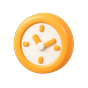
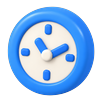
update

diff --git a/Atype.html b/Atype.html
@@ -182,7 +182,7 @@
     align-items: center;
     padding-left: 56px;
     background: var(--tab-light, color-mix(in srgb, var(--tab-color, var(--blue-accent)) 40%, #fff));
-    color: #fff;
+    color: var(--tab-light-text, #fff);
     clip-path: inset(0 100% 0 0);
     will-change: clip-path;
     z-index: 2;
@@ -547,7 +547,7 @@
       </div>
       <nav class="menu" id="navMenu">
        <div class="menu-track">
-        <div class="tab-wrap" data-key="firstpay" data-tab-light="#FF467D" data-tab-color="#FF2465" data-content="assets/content-firstpay-v2.jpg" data-content-mobile="assets/content-firstpay-mobile.jpg" data-fab-bg="#FF5285" data-fab-color="#FF5285" data-fab-type="video" data-fab-media="assets/1편.mp4" data-fab-img-style="width:100%;height:100%;left:0;top:0;">
+        <div class="tab-wrap" data-key="firstpay" data-tab-light="#FF90B1" data-tab-color="#FF2465" data-content="assets/content-firstpay-v2.jpg" data-content-mobile="assets/content-firstpay-mobile.jpg" data-fab-bg="#FF5285" data-fab-color="#FF5285" data-fab-type="video" data-fab-media="assets/1편.mp4" data-fab-img-style="width:100%;height:100%;left:0;top:0;">
           <button class="tab-btn" type="button">
             <span class="tab-plain"><span class="tab-icon"><picture><source media="(max-width: 768px)" srcset="assets/gnb/v2/icon-m1.png" /><img src="assets/gnb/v2/icon-d1.png" alt="" /></picture></span><span class="tab-text">장기저축급여</span></span>
             <span class="tab-pill">
@@ -568,7 +568,7 @@
           </div>
         </div>
 
-        <div class="tab-wrap" data-key="retire" data-tab-light="#46A4F9" data-content="assets/content-retire-v2.jpg" data-content-mobile="assets/content-retire-mobile.jpg" data-fab-bg="#0F68EE" data-fab-color="#2853F6" data-fab-type="video" data-fab-media="assets/2편.mp4" data-fab-img-style="width:100%;height:100%;left:0;top:0;">
+        <div class="tab-wrap" data-key="retire" data-tab-light="#90C8FB" data-content="assets/content-retire-v2.jpg" data-content-mobile="assets/content-retire-mobile.jpg" data-fab-bg="#0F68EE" data-fab-color="#2853F6" data-fab-type="video" data-fab-media="assets/2편.mp4" data-fab-img-style="width:100%;height:100%;left:0;top:0;">
           <button class="tab-btn" type="button">
             <span class="tab-plain"><span class="tab-icon"><picture><source media="(max-width: 768px)" srcset="assets/gnb/v2/icon-m2.png" /><img src="assets/gnb/v2/icon-d2.png" alt="" /></picture></span><span class="tab-text">분할급여금</span></span>
             <span class="tab-pill">
@@ -589,7 +589,7 @@
           </div>
         </div>
 
-        <div class="tab-wrap" data-key="deposit" data-tab-light="#A25FFF" data-content="assets/content-deposit-v2.jpg" data-content-mobile="assets/content-deposit-mobile.jpg" data-fab-bg="#8D3BFF" data-fab-color="#8D3BFF" data-fab-type="video" data-fab-media="assets/3편.mp4" data-fab-img-style="width:100%;height:100%;left:0;top:0;">
+        <div class="tab-wrap" data-key="deposit" data-tab-light="#C79FFF" data-content="assets/content-deposit-v2.jpg" data-content-mobile="assets/content-deposit-mobile.jpg" data-fab-bg="#8D3BFF" data-fab-color="#8D3BFF" data-fab-type="video" data-fab-media="assets/3편.mp4" data-fab-img-style="width:100%;height:100%;left:0;top:0;">
           <button class="tab-btn" type="button">
             <span class="tab-plain"><span class="tab-icon"><picture><source media="(max-width: 768px)" srcset="assets/gnb/v2/icon-m3.png" /><img src="assets/gnb/v2/icon-d3.png" alt="" /></picture></span><span class="tab-text">증좌</span></span>
             <span class="tab-pill">
@@ -631,7 +631,7 @@
           </div>
         </div>
 
-        <div class="tab-wrap" data-key="future" data-tab-light="#32B14B" data-content="" data-blank-color="#E8F5E9" data-fab-bg="#2E9E44" data-fab-color="#2E9E44" data-fab-type="image" data-fab-media="assets/fab-blank-v2.png" data-fab-img-style="width:64px;height:64px;left:50%;top:50%;transform:translate(-50%,-50%);">
+        <div class="tab-wrap" data-key="future" data-tab-light="#84D093" data-content="" data-blank-color="#E8F5E9" data-fab-bg="#2E9E44" data-fab-color="#2E9E44" data-fab-type="image" data-fab-media="assets/fab-blank-v2.png" data-fab-img-style="width:64px;height:64px;left:50%;top:50%;transform:translate(-50%,-50%);">
           <button class="tab-btn" type="button">
             <span class="tab-plain"><span class="tab-icon"><picture><source media="(max-width: 768px)" srcset="assets/gnb/v2/icon-m5.png" /><img src="assets/gnb/v2/icon-d5.png" alt="" /></picture></span><span class="tab-text">혜택마트</span></span>
             <span class="tab-pill">
@@ -652,7 +652,7 @@
           </div>
         </div>
 
-        <div class="tab-wrap" data-key="lowtax" data-tab-light="#FFBA02" data-content="" data-blank-color="#FFF9E6" data-fab-bg="#E6A700" data-fab-color="#E6A700" data-fab-type="image" data-fab-media="assets/fab-blank-v2.png" data-fab-img-style="width:64px;height:64px;left:50%;top:50%;transform:translate(-50%,-50%);">
+        <div class="tab-wrap" data-key="lowtax" data-tab-light="#FFD667" data-content="" data-blank-color="#FFF9E6" data-fab-bg="#E6A700" data-fab-color="#E6A700" data-fab-type="image" data-fab-media="assets/fab-blank-v2.png" data-fab-img-style="width:64px;height:64px;left:50%;top:50%;transform:translate(-50%,-50%);">
           <button class="tab-btn" type="button">
             <span class="tab-plain"><span class="tab-icon"><picture><source media="(max-width: 768px)" srcset="assets/gnb/v2/icon-m6.png" /><img src="assets/gnb/v2/icon-d6.png" alt="" /></picture></span><span class="tab-text">벽돌깨기</span></span>
             <span class="tab-pill">
@@ -673,7 +673,7 @@
           </div>
         </div>
 
-        <div class="tab-wrap" data-key="deduction" data-tab-light="#A25FFF" data-content="" data-blank-color="#F3E8FF" data-fab-bg="#8D3BFF" data-fab-color="#8D3BFF" data-fab-type="image" data-fab-media="assets/fab-blank-v2.png" data-fab-img-style="width:64px;height:64px;left:50%;top:50%;transform:translate(-50%,-50%);">
+        <div class="tab-wrap" data-key="deduction" data-tab-light="#C79FFF" data-content="" data-blank-color="#F3E8FF" data-fab-bg="#8D3BFF" data-fab-color="#8D3BFF" data-fab-type="image" data-fab-media="assets/fab-blank-v2.png" data-fab-img-style="width:64px;height:64px;left:50%;top:50%;transform:translate(-50%,-50%);">
           <button class="tab-btn" type="button">
             <span class="tab-plain"><span class="tab-icon"><picture><source media="(max-width: 768px)" srcset="assets/gnb/v2/icon-m7.png" /><img src="assets/gnb/v2/icon-d7.png" alt="" /></picture></span><span class="tab-text">증좌 2편</span></span>
             <span class="tab-pill">
@@ -694,7 +694,7 @@
           </div>
         </div>
 
-        <div class="tab-wrap" data-key="yearend" data-tab-light="#FF891D" data-content="" data-blank-color="#FFF0E0" data-fab-bg="#FF7A00" data-fab-color="#FF7A00" data-fab-type="image" data-fab-media="assets/fab-blank-v2.png" data-fab-img-style="width:64px;height:64px;left:50%;top:50%;transform:translate(-50%,-50%);">
+        <div class="tab-wrap" data-key="yearend" data-tab-light="#FFB877" data-content="" data-blank-color="#FFF0E0" data-fab-bg="#FF7A00" data-fab-color="#FF7A00" data-fab-type="image" data-fab-media="assets/fab-blank-v2.png" data-fab-img-style="width:64px;height:64px;left:50%;top:50%;transform:translate(-50%,-50%);">
           <button class="tab-btn" type="button">
             <span class="tab-plain"><span class="tab-icon"><picture><source media="(max-width: 768px)" srcset="assets/gnb/v2/icon-m8.png" /><img src="assets/gnb/v2/icon-d8.png" alt="" /></picture></span><span class="tab-text">분할급여금 2편</span></span>
             <span class="tab-pill">
@@ -818,6 +818,8 @@
       if (c) w.style.setProperty('--tab-color', c);
       // lighter shade the selected tab scrolls into (4편 = #46A4F9)
       if (w.dataset.tabLight) w.style.setProperty('--tab-light', w.dataset.tabLight);
+      // paler shades need the tab color for legible text (4편 keeps white)
+      if (w.dataset.key !== 'benefit' && c) w.style.setProperty('--tab-light-text', c);
     });
     const contentImage = document.getElementById('contentImage');
     const benefitFrame = document.getElementById('benefitFrame');

diff --git a/Btype.html b/Btype.html
@@ -152,6 +152,8 @@
     align-items: center;
     gap: 8px;
     background: color-mix(in srgb, var(--tab-color, var(--blue-accent)) 15%, #fff);
+    /* selected border = a deeper shade of the tab's own color */
+    border: 2px solid color-mix(in srgb, var(--tab-color, var(--blue-accent)) 30%, #fff);
     border-radius: 16px;
     height: 56px;
     padding: 0 20px 0 8px;
@@ -470,27 +472,27 @@
       overflow-x: auto;
       -webkit-overflow-scrolling: touch;
       scrollbar-width: none;
-      height: 38px;
+      height: 48px;
       padding: 0 10px 8px;
     }
     nav.menu::-webkit-scrollbar { display: none; }
     .menu-track { gap: 4px; margin: 0; }
 
-    /* Figma mobile GNB: inactive = 30px icon-only square, active = icon + label */
+    /* Figma mobile GNB (B안): inactive = 40px icon-only square, active = icon + label */
     .tab-plain {
-      width: 30px;
-      height: 30px;
+      width: 40px;
+      height: 40px;
       justify-content: center;
       gap: 0;
       padding: 0;
-      border: 1px solid #bed0f6;
-      border-radius: 10px;
+      border: 1.5px solid #bed0f6;
+      border-radius: 12px;
       background: #fff;
     }
     .tab-text { display: none; }
-    .tab-pill { height: 30px; gap: 4px; padding: 0 8px 0 4px; border-radius: 10px; font-size: 12px; letter-spacing: -0.36px; }
-    .tab-icon { width: 22px; height: 22px; }
-    .pill-fill { padding-left: 30px; }
+    .tab-pill { height: 40px; gap: 6px; padding: 0 10px 0 6px; border: 1.5px solid color-mix(in srgb, var(--tab-color, var(--blue-accent)) 30%, #fff); border-radius: 12px; font-size: 16px; letter-spacing: -0.48px; }
+    .tab-icon { width: 26px; height: 26px; }
+    .pill-fill { padding-left: 38px; }
 
     /* per-tab desktop tip lives inside the horizontally-scrolling nav —
        hide it and show the shared .mobile-tip banner below instead.
